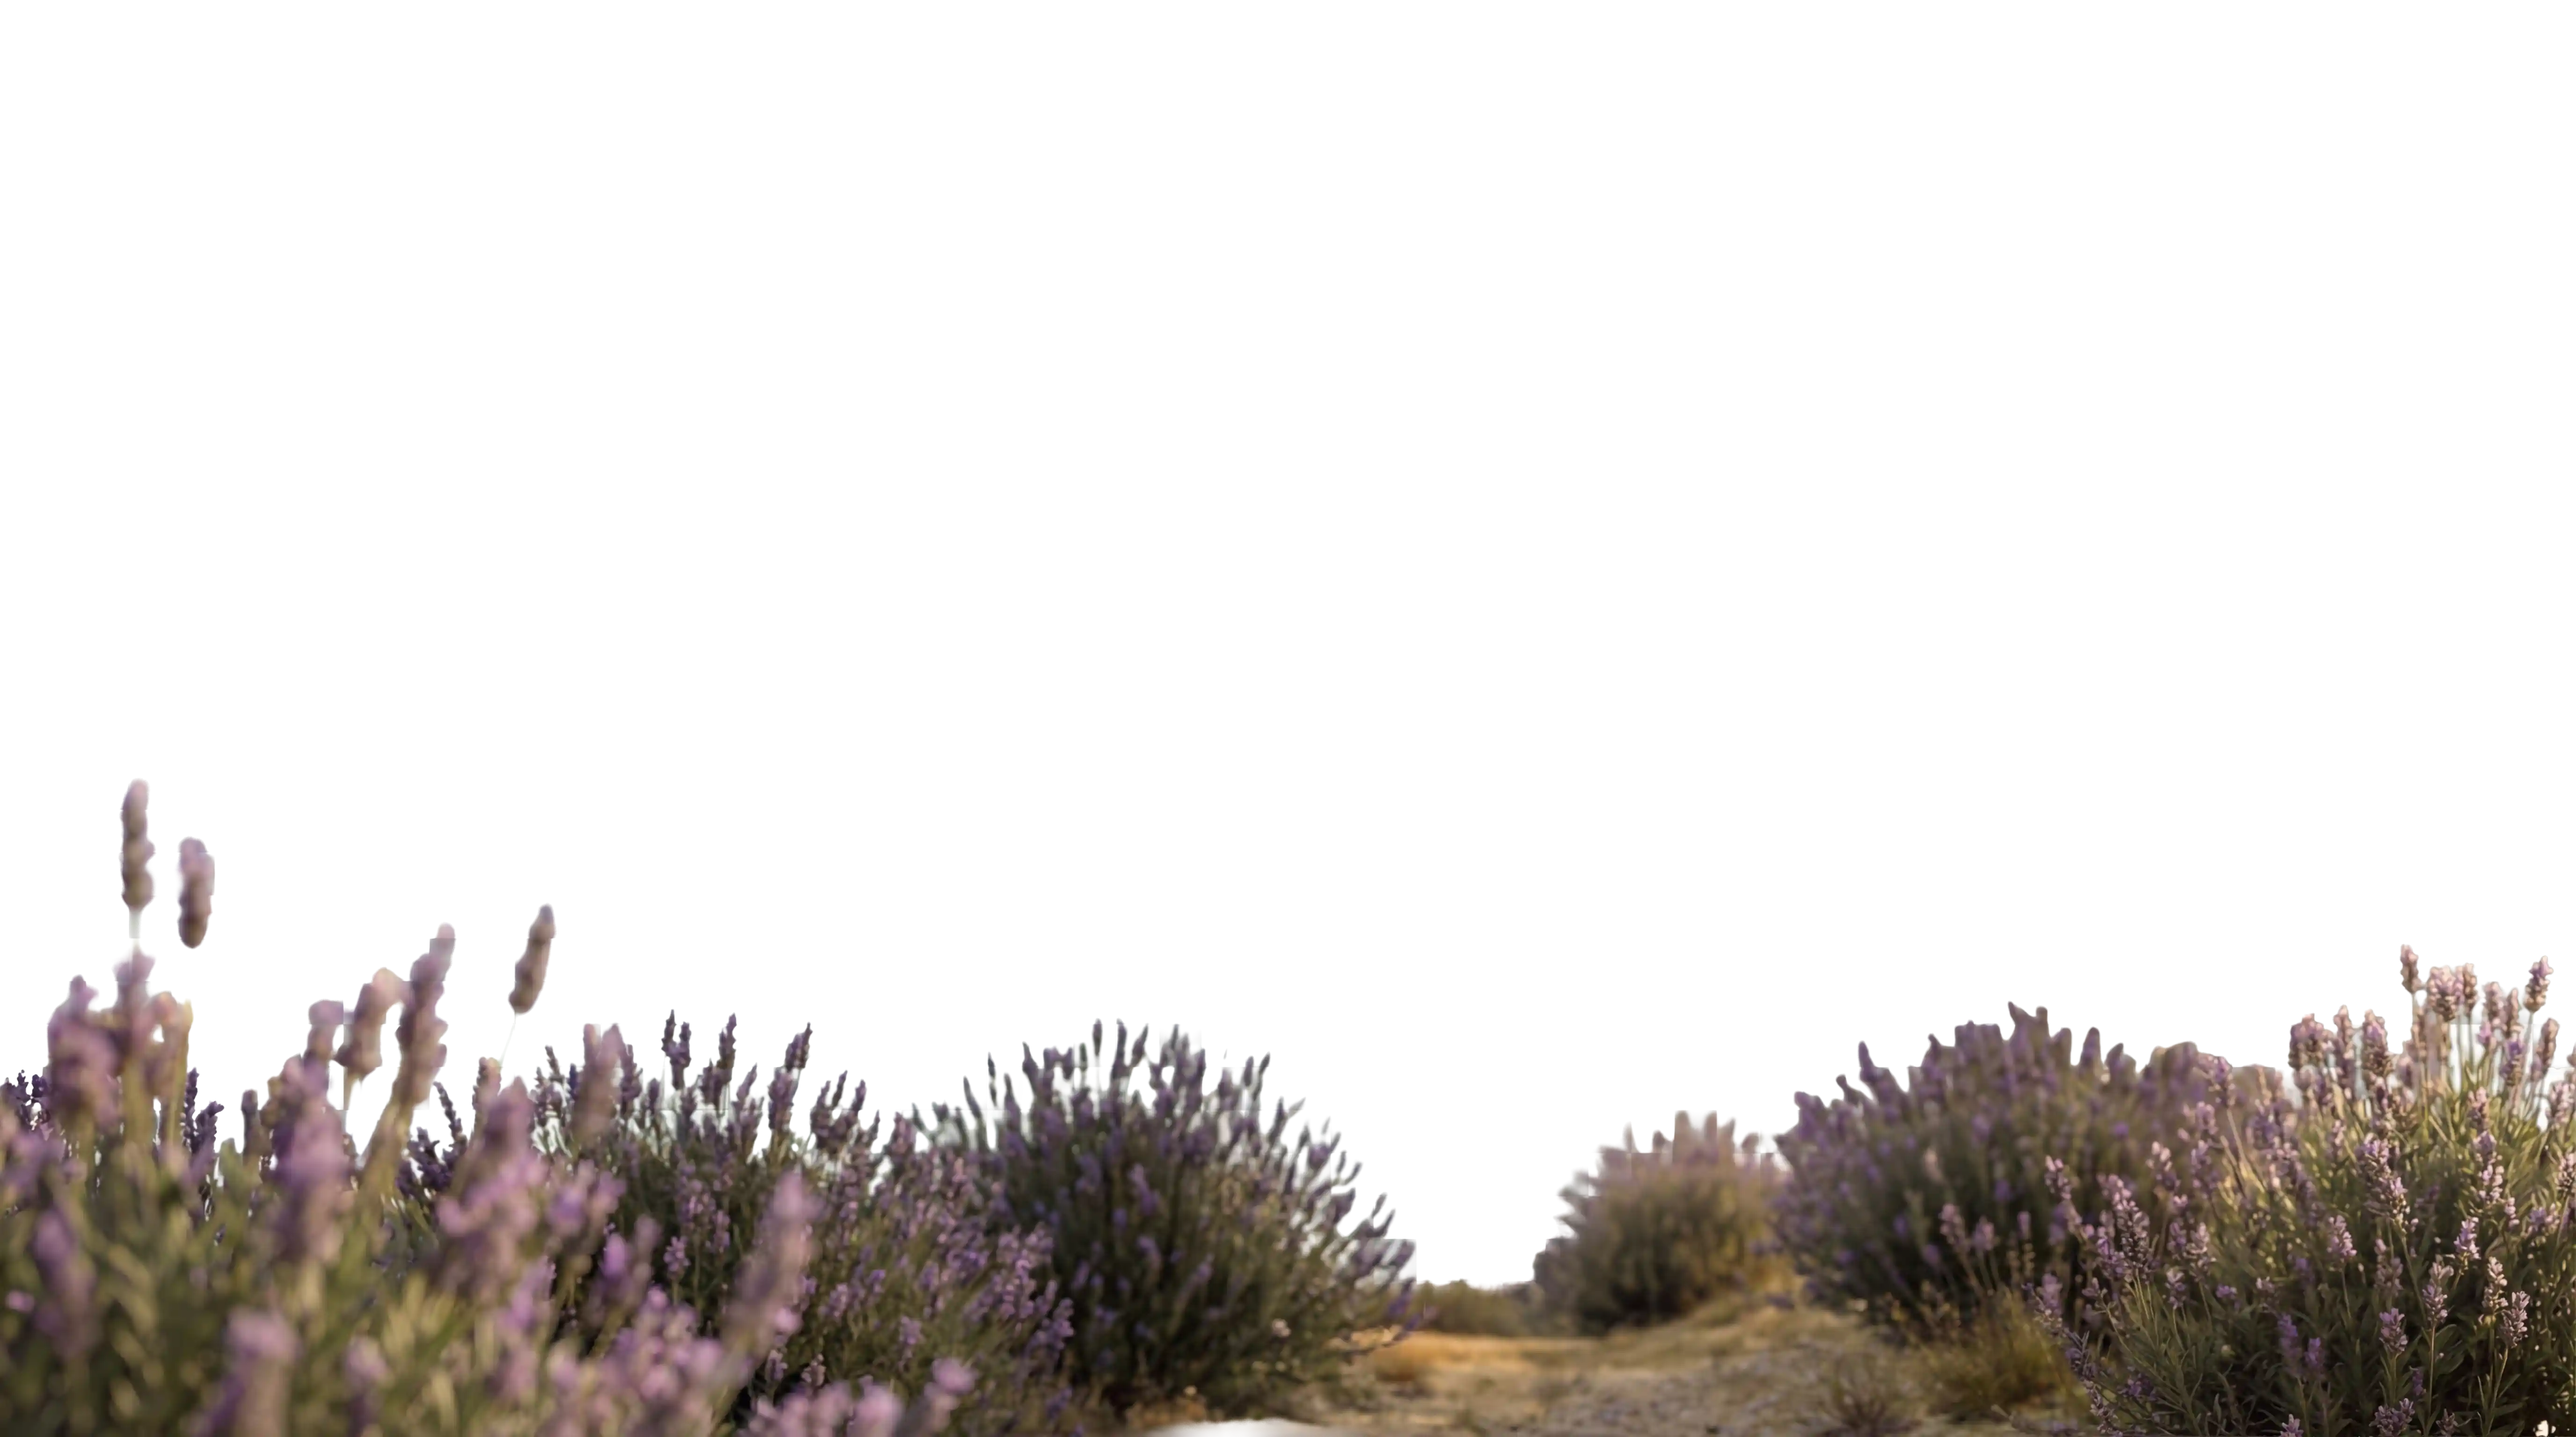
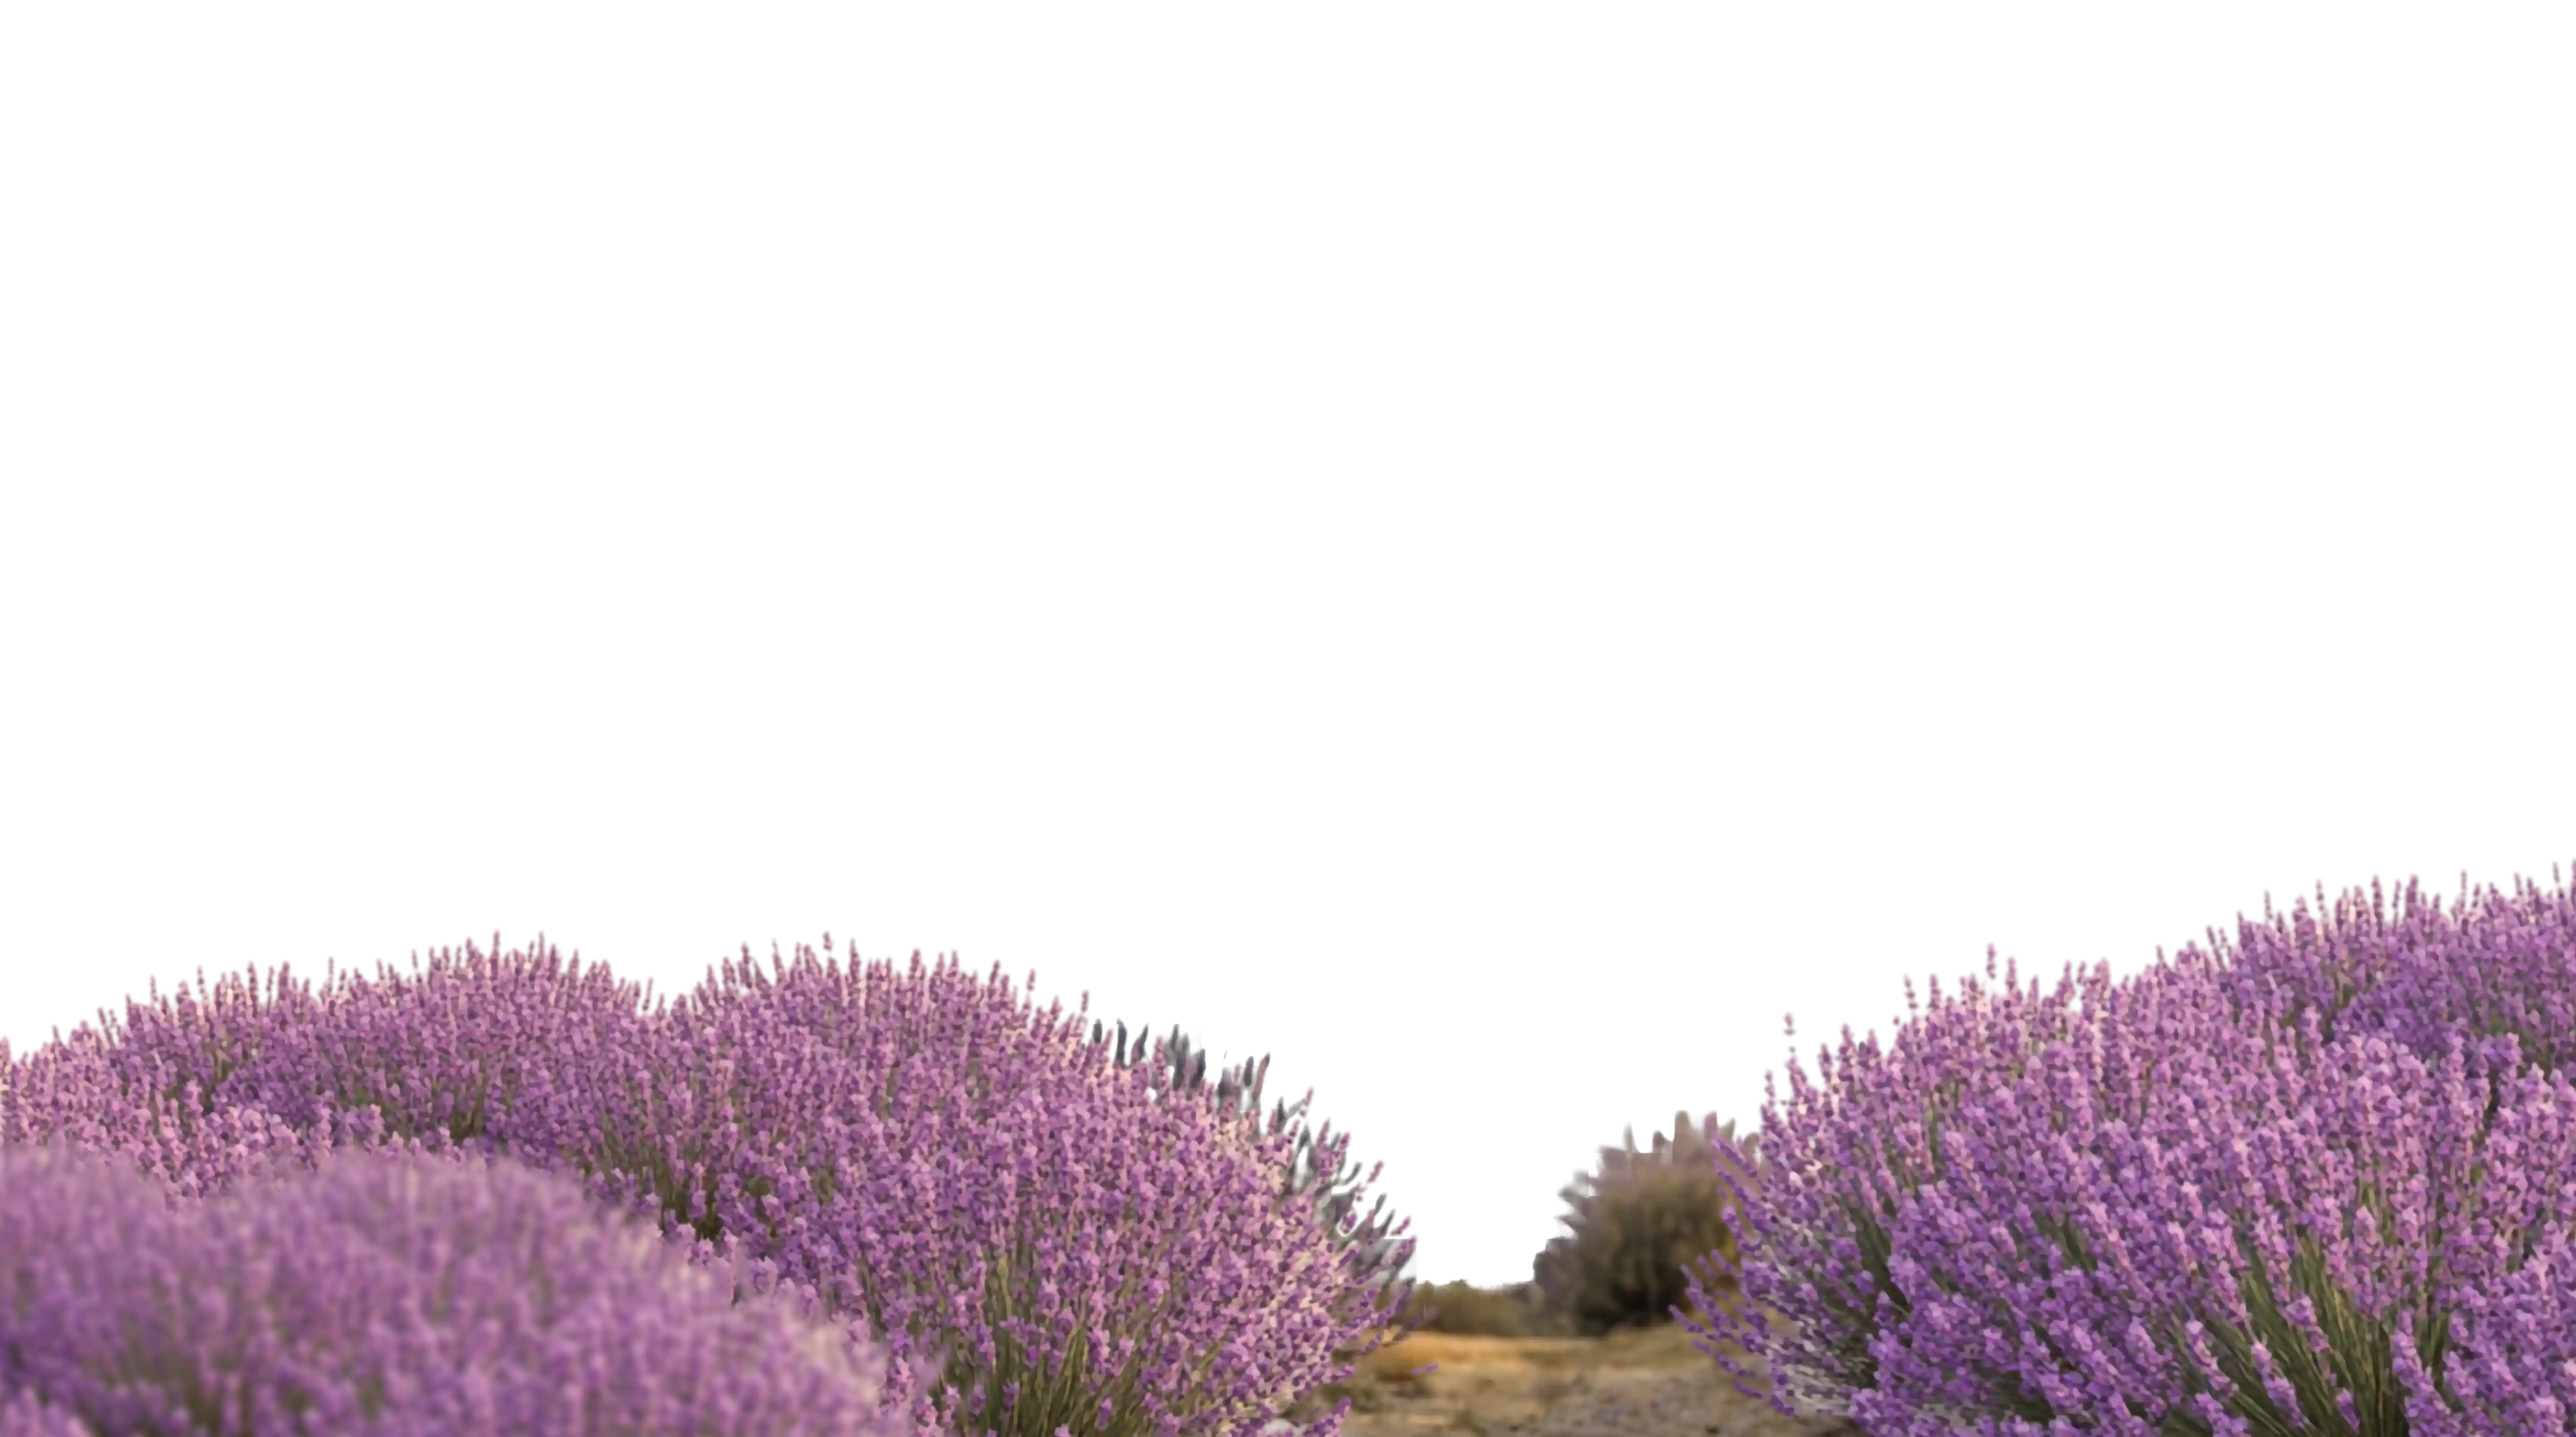
paralax izmjena slika

Changed region(s): [[0.0, 0.5312, 0.5625, 1.0], [0.6562, 0.5938, 1.0, 1.0]]

diff --git a/src/components/LandingPage.jsx b/src/components/LandingPage.jsx
@@ -7,7 +7,6 @@ import paralax1 from '../assets/paralax/para-1.webp'
 import paralax2 from '../assets/paralax/para-2.webp'
 import paralax3 from '../assets/paralax/para-3.webp'
 import paralax4 from '../assets/paralax/para-4.webp'
-import paralaxArmal from '../assets/paralax/armal-paralax.png'
 import FeaturedCollections from './FeaturedCollections'
 import MoodboardSection from './MoodboardSection'
 import AboutSection from './AboutSection'
@@ -42,12 +41,23 @@ const LandingPage = () => {
       typeof window.matchMedia === 'function' &&
       window.matchMedia('(prefers-reduced-motion: reduce)').matches
 
+    const isMobileOrTablet =
+      typeof window !== 'undefined' &&
+      typeof window.matchMedia === 'function' &&
+      window.matchMedia('(max-width: 767px)').matches
+
+    const isMobile =
+      typeof window !== 'undefined' &&
+      typeof window.matchMedia === 'function' &&
+      window.matchMedia('(max-width: 639px)').matches
+
     // Intenziteti (px) po layeru: para-1 je najsporiji, para-2 najbrži/najbliži
     // redoslijed refova je: [para-1, armal-paralax, para-3, para-4, para-2]
     const intensities = [8, 14, 20, 28, 36]
 
     // Overscan da se ne vide rubovi layera pri translateu (layeri su transparentni komadi).
-    const baseScale = 1.12
+    const intensityScale = isMobileOrTablet ? 0.6 : 1
+    const baseScale = isMobileOrTablet ? 1.06 : 1.12
 
     const clamp = (v, min, max) => Math.max(min, Math.min(max, v))
 
@@ -63,10 +73,11 @@ const LandingPage = () => {
       // xNorm/yNorm: -1..1
       paralaxLayerRefs.current.forEach((el, i) => {
         if (!el) return
-        const intensity = intensities[i] ?? 0
+        const intensity = (intensities[i] ?? 0) * intensityScale
         const tx = xNorm * intensity
         const ty = yNorm * intensity
-        el.style.transform = `translate3d(${tx}px, ${ty}px, 0) scale(${baseScale})`
+        const scale = baseScale * (isMobile && i === 4 ? 1.35 : 1)
+        el.style.transform = `translate3d(${tx}px, ${ty}px, 0) scale(${scale})`
       })
     }
 
@@ -230,23 +241,6 @@ const LandingPage = () => {
           style={{ willChange: 'transform', zIndex: 1 }}
           draggable={false}
         />
-        {/* armal-paralax overlay: smanjen i pozicioniran 200px od dna hero sekcije */}
-        <div
-          className="absolute left-1/2 pointer-events-none select-none"
-          style={{ zIndex: 2, bottom: '180px', transform: 'translateX(-10%)' }}
-        >
-          <img
-            ref={(el) => {
-              paralaxLayerRefs.current[1] = el
-            }}
-            src={paralaxArmal}
-            alt=""
-            aria-hidden="true"
-            className="w-[70%] max-w-[520px] md:w-[45%] lg:w-[80%] max-h-[65%] object-contain"
-            style={{ willChange: 'transform' }}
-            draggable={false}
-          />
-        </div>
         <img
           ref={(el) => {
             paralaxLayerRefs.current[2] = el
@@ -269,17 +263,23 @@ const LandingPage = () => {
           style={{ willChange: 'transform', zIndex: 4 }}
           draggable={false}
         />
-        <img
-          ref={(el) => {
-            paralaxLayerRefs.current[4] = el
-          }}
-          src={paralax2}
-          alt=""
-          aria-hidden="true"
-          className="absolute inset-0 h-full w-full object-cover pointer-events-none select-none"
-          style={{ willChange: 'transform', zIndex: 5 }}
-          draggable={false}
-        />
+        {/* para-2: slavina + kamen (mobile: sidri za dno hero-a) */}
+        <div
+          className="absolute left-1/2 bottom-0 h-[85%] w-[140%] -translate-x-1/2 pointer-events-none select-none md:inset-0 md:left-0 md:h-full md:w-full md:translate-x-0"
+          style={{ zIndex: 5 }}
+        >
+          <img
+            ref={(el) => {
+              paralaxLayerRefs.current[4] = el
+            }}
+            src={paralax2}
+            alt=""
+            aria-hidden="true"
+            className="absolute inset-0 h-full w-full object-contain object-bottom md:object-cover md:object-center"
+            style={{ willChange: 'transform' }}
+            draggable={false}
+          />
+        </div>
 
         <div
           className="absolute inset-0 bg-gradient-to-r from-slate-900/85 via-slate-900/70 to-slate-900/30"
